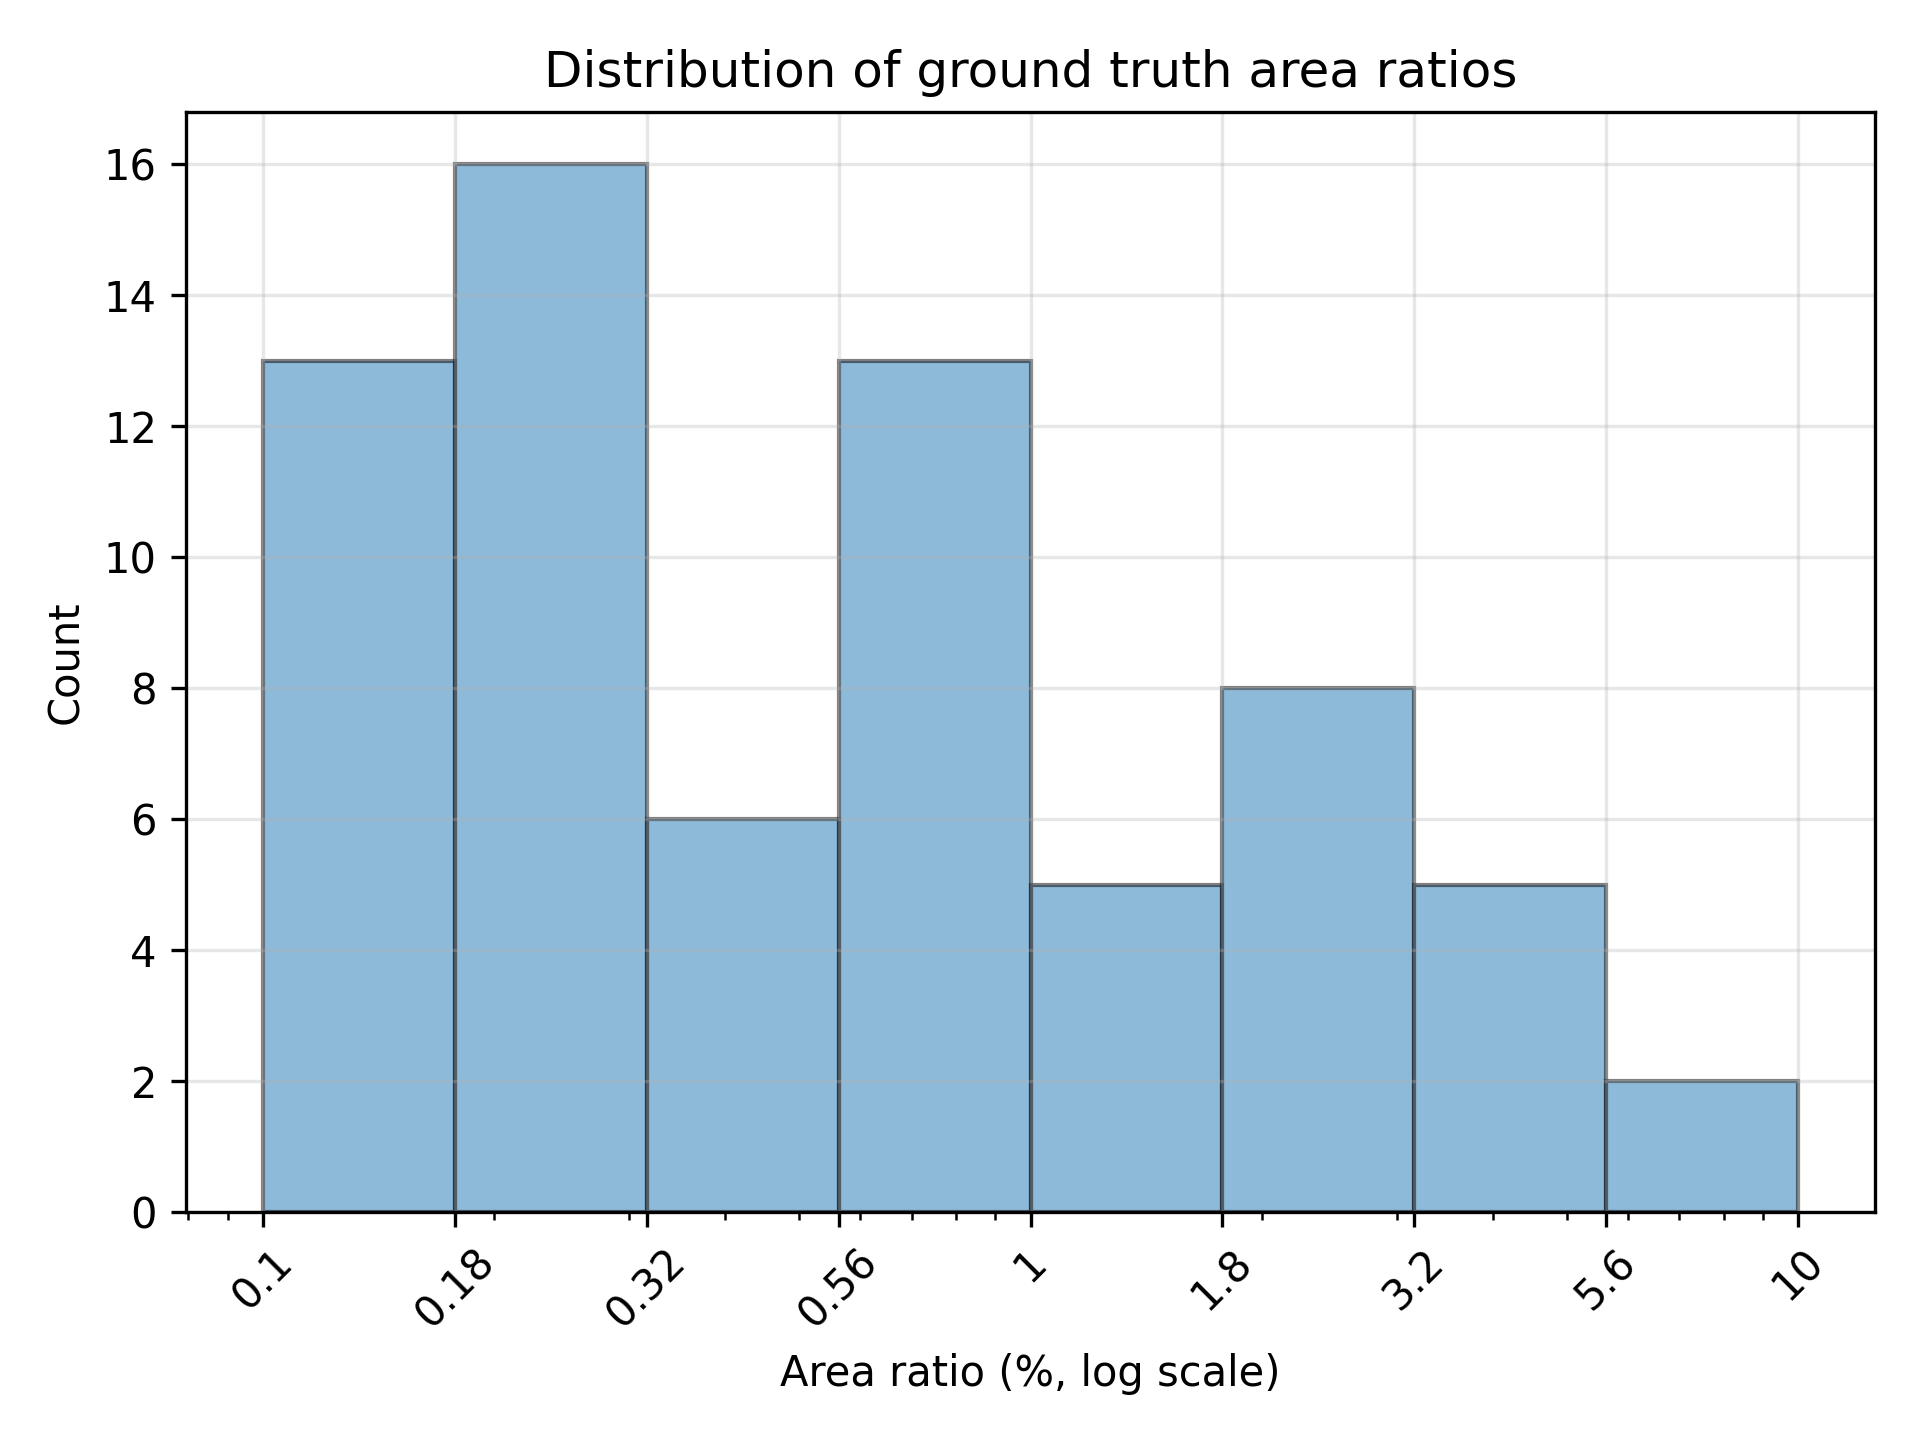
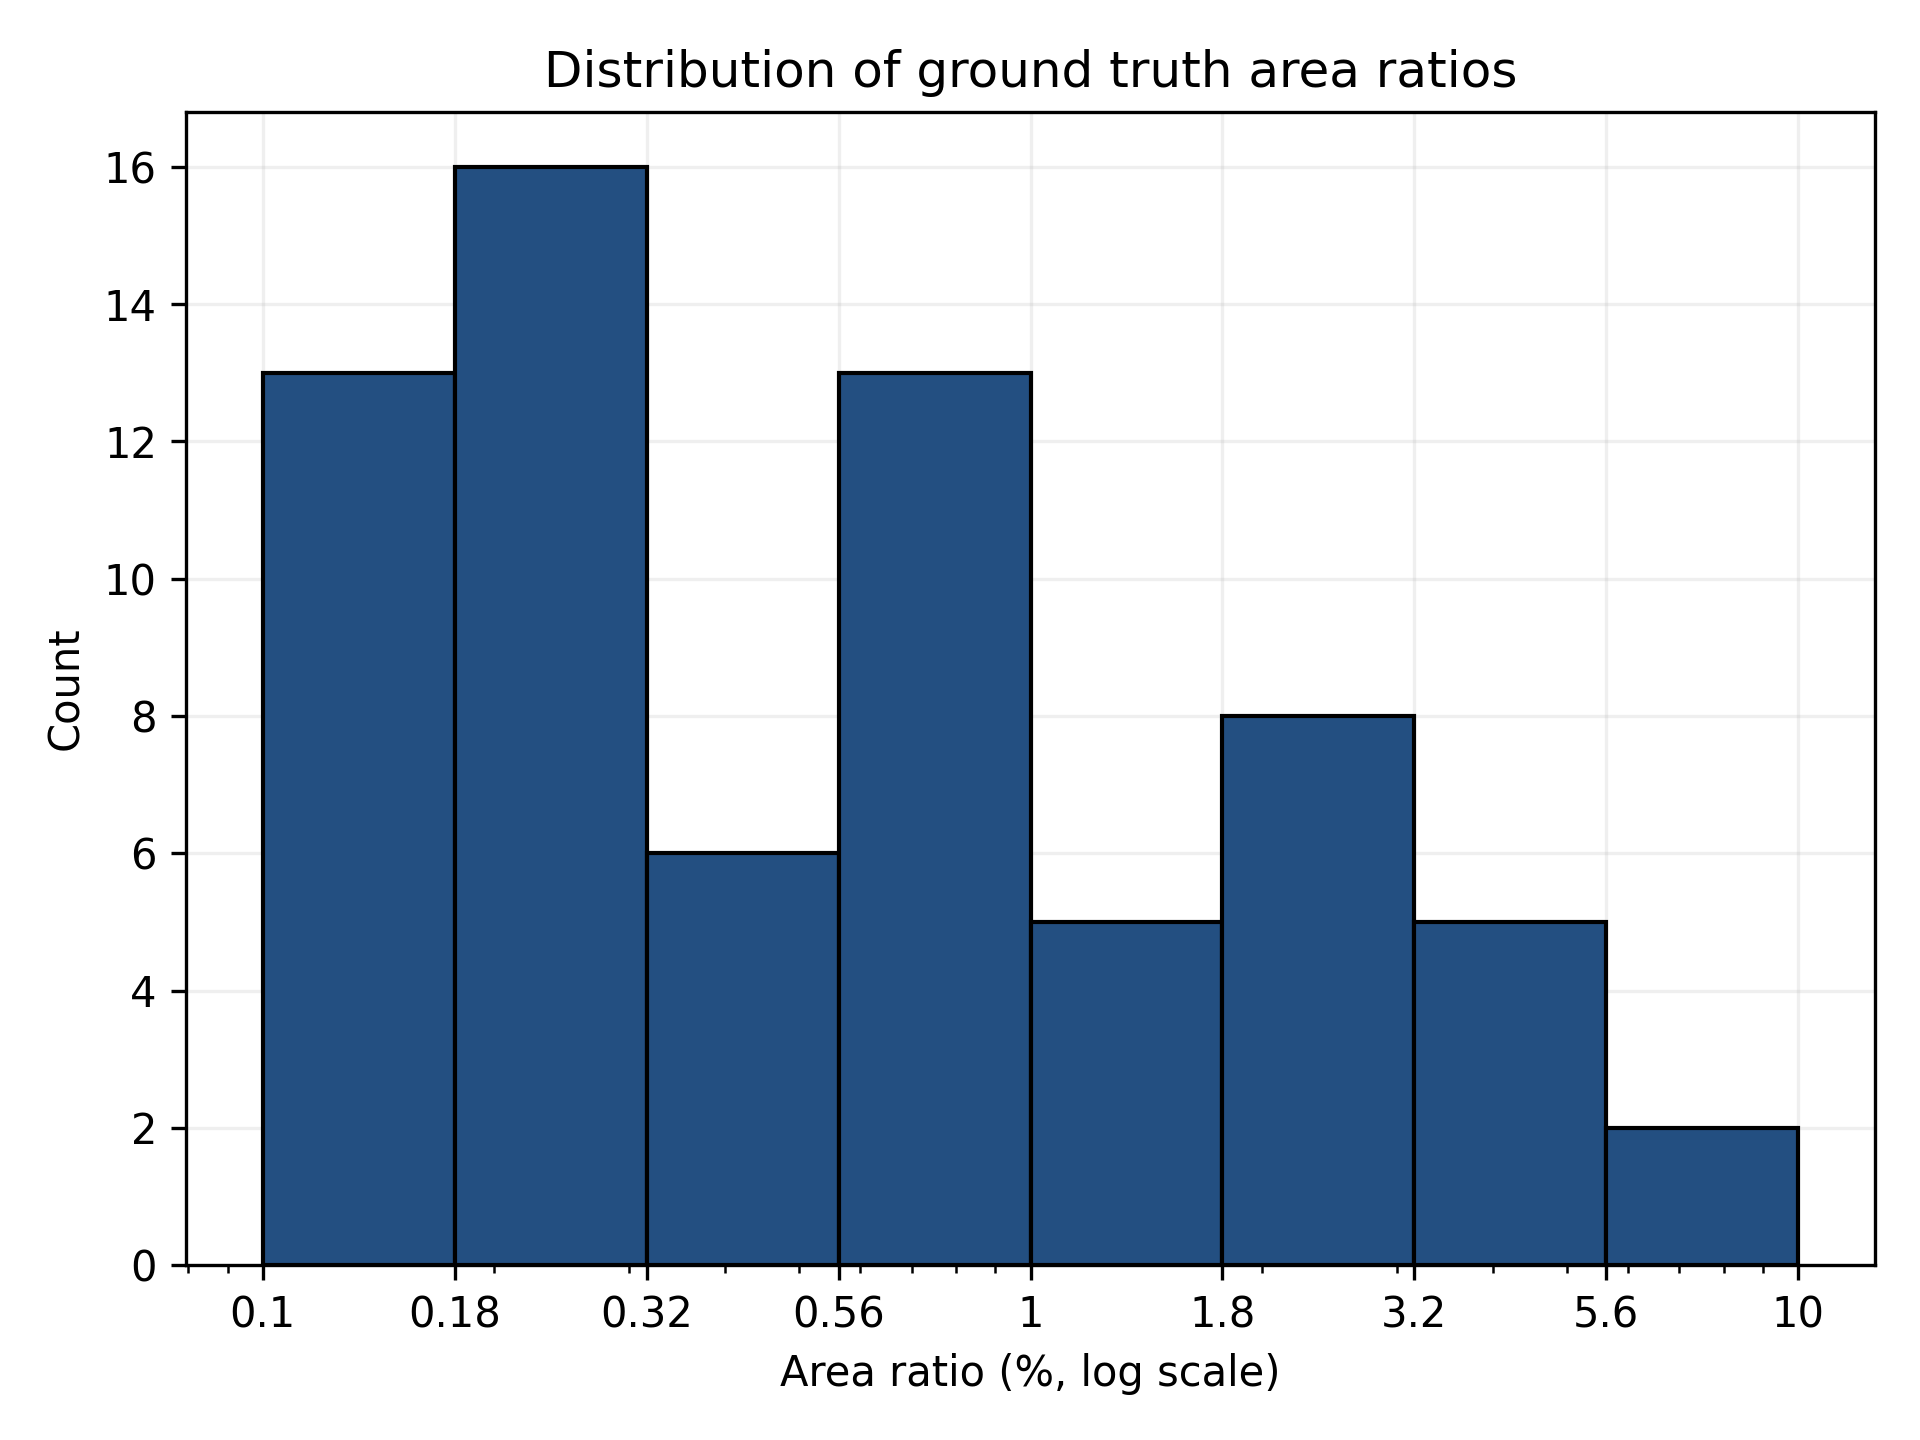
Split 3x3 plot, differe colour for area distribution, title for giou dist

diff --git a/src/wimmelbench/stats.py b/src/wimmelbench/stats.py
@@ -2,9 +2,10 @@ from collections import defaultdict
 import json
 from statistics import mean, median, stdev
 from typing import Dict, List, Mapping, Tuple
-import matplotlib.pyplot as plt
+from matplotlib import ticker, pyplot as plt
 import math
 import os
+import argparse
 
 MODEL_DIRS = {
     "Claude 3.6 Sonnet": "results/claude-3-5-sonnet-20241022",
@@ -50,6 +51,7 @@ def plot_giou_distribution(
 ) -> None:
     """Create side-by-side histograms of GIoU values for all models."""
     fig, axes = plt.subplots(1, 3, figsize=(18, 6))
+    fig.suptitle("GIoU distribution by model", fontsize=14)
 
     bucket_size = 0.05
     buckets = [round(i * bucket_size - 1.0, 2) for i in range(41)]
@@ -68,6 +70,7 @@ def plot_giou_distribution(
             width=bucket_size,
             align="edge",
             color=MODEL_COLORS[model_name],
+            zorder=3,
         )
 
         # Add statistics text box
@@ -87,7 +90,7 @@ def plot_giou_distribution(
         axes[idx].set_ylabel("Count")
         axes[idx].set_xlim(-1, 1)
         axes[idx].set_ylim(0, 16)
-        axes[idx].set_title(f"{model_name}\nGIoU distribution")
+        axes[idx].set_title(model_name)
         axes[idx].grid(True, alpha=0.3)
 
     plt.tight_layout()
@@ -104,17 +107,17 @@ def plot_area_ratio_distribution(area_ratios: List[float], output_path: str) -> 
     plt.hist(
         area_ratios,
         bins=bins,
+        color="#234f81",
         edgecolor="black",
-        alpha=0.5,
+        zorder=3,
     )
 
+    plt.grid(True, which="major", alpha=0.2)
     plt.xscale("log")
     plt.xlabel("Area ratio (%, log scale)")
     plt.ylabel("Count")
     plt.title("Distribution of ground truth area ratios")
-    plt.grid(True, which="major", alpha=0.3)
-    # Format x-axis ticks with fewer decimal places for cleaner look
-    plt.xticks(bins, [f"{x:.2g}" for x in bins], rotation=45)
+    plt.xticks(bins, [f"{x:.2g}" for x in bins])
     plt.tight_layout()
     plt.savefig(output_path, dpi=300)
     plt.close()
@@ -124,58 +127,67 @@ def plot_correlations(
     data_by_model: Dict[str, Tuple[List[float], List[float], List[float]]],
     output_path: str,
 ) -> None:
-    """Create a 3x3 grid of correlation plots comparing all models."""
-    fig, axes = plt.subplots(3, 3, figsize=(20, 20))
-
+    """Create three separate 1x3 plots comparing all models."""
     alpha = 0.9
+    plot_types = [
+        ("giou_vs_area", "GIoU vs Area ratio"),
+        ("grade_vs_area", "Description grade vs Area ratio"),
+        ("grade_vs_giou", "Description grade vs GIoU"),
+    ]
 
-    for col, (model_name, (gious, grades, area_ratios)) in enumerate(
-        data_by_model.items()
-    ):
-        # Add model name only to the first row
-        axes[0, col].set_title(model_name, pad=10, fontweight="bold", fontsize=16)
+    for plot_type, title in plot_types:
+        fig, axes = plt.subplots(1, 3, figsize=(20, 6))
+        fig.suptitle(title, fontsize=16, y=1.01)
 
-        # Plot 1: GIoU vs log area ratio
-        axes[0, col].scatter(
-            area_ratios,
-            gious,
-            alpha=alpha,
-            color=MODEL_COLORS[model_name],
-        )
-        # Add R² inside the plot instead of title
-        axes[0, col].text(
-            0.95,
-            0.05,
-            f"R² = {calculate_r_squared([math.log(r) for r in area_ratios], gious):.2f}",
-            transform=axes[0, col].transAxes,
-            bbox=dict(facecolor="white", alpha=0.8),
-            horizontalalignment="right",
-            verticalalignment="bottom",
-        )
-        axes[0, col].set_ylim(-1, 1)
-        axes[0, col].set_xscale("log")
-        axes[0, col].set_ylabel("GIoU")
-        axes[0, col].set_xlabel("Area ratio (%, log scale)")
+        for col, (model_name, (gious, grades, area_ratios)) in enumerate(
+            data_by_model.items()
+        ):
+            axes[col].set_title(model_name)
 
-        # Plot 2: Description grade vs area ratio
-        axes[1, col].scatter(
-            area_ratios, grades, alpha=alpha, color=MODEL_COLORS[model_name]
-        )
-        axes[1, col].set_yticks(range(4))
-        axes[1, col].set_xscale("log")
-        axes[1, col].set_ylabel("Description grade")
-        axes[1, col].set_xlabel("Area ratio (%, log scale)")
+            if plot_type == "giou_vs_area":
+                axes[col].scatter(
+                    area_ratios, gious, alpha=alpha, color=MODEL_COLORS[model_name]
+                )
+                axes[col].text(
+                    0.95,
+                    0.05,
+                    f"R² = {calculate_r_squared([math.log(r) for r in area_ratios], gious):.2f}",
+                    transform=axes[col].transAxes,
+                    bbox=dict(facecolor="white", alpha=0.8),
+                    horizontalalignment="right",
+                    verticalalignment="bottom",
+                )
+                axes[col].set_ylim(-1, 1)
+                axes[col].set_xscale("log")
+                axes[col].set_xticks([0.02, 0.1, 1, 10])
+                axes[col].set_xticklabels(["0.02", "0.1", "1", "10"])
+                axes[col].set_ylabel("GIoU")
+                axes[col].set_xlabel("Area ratio (%, log scale)")
 
-        # Plot 3: Description grade vs GIoU
-        axes[2, col].scatter(gious, grades, alpha=alpha, color=MODEL_COLORS[model_name])
-        axes[2, col].set_yticks(range(4))
-        axes[2, col].set_ylabel("Description grade")
-        axes[2, col].set_xlabel("GIoU")
-        axes[2, col].set_xlim(-1, 1)
+            elif plot_type == "grade_vs_area":
+                axes[col].scatter(
+                    area_ratios, grades, alpha=alpha, color=MODEL_COLORS[model_name]
+                )
+                axes[col].set_yticks(range(4))
+                axes[col].set_xscale("log")
+                axes[col].set_xticks([0.02, 0.1, 1, 10])
+                axes[col].set_xticklabels(["0.02", "0.1", "1", "10"])
+                axes[col].set_ylabel("Description grade")
+                axes[col].set_xlabel("Area ratio (%, log scale)")
 
-    plt.tight_layout()
-    plt.savefig(output_path, dpi=300)
-    plt.close()
+            else:  # grade_vs_giou
+                axes[col].scatter(
+                    gious, grades, alpha=alpha, color=MODEL_COLORS[model_name]
+                )
+                axes[col].set_yticks(range(4))
+                axes[col].set_ylabel("Description grade")
+                axes[col].set_xlabel("GIoU")
+                axes[col].set_xlim(-1, 1)
+
+        plt.tight_layout()
+        output_file = output_path.replace(".png", f"_{plot_type}.png")
+        plt.savefig(output_file, dpi=300, bbox_inches="tight")
+        plt.close()
 
 
 def plot_grade_distribution(
@@ -261,6 +273,27 @@ def plot_grade_distribution(
 
 
 def main():
+    # Add argument parser
+    parser = argparse.ArgumentParser(
+        description="Generate statistical plots for model comparisons."
+    )
+    parser.add_argument(
+        "--correlations", action="store_true", help="Generate correlation plots"
+    )
+    parser.add_argument(
+        "--giou", action="store_true", help="Generate GIoU distribution plot"
+    )
+    parser.add_argument(
+        "--area", action="store_true", help="Generate area ratio distribution plot"
+    )
+    parser.add_argument(
+        "--grades", action="store_true", help="Generate grade distribution plot"
+    )
+    args = parser.parse_args()
+
+    # If no specific plots are requested, generate all plots
+    generate_all = not any([args.correlations, args.giou, args.area, args.grades])
+
     # Read annotations once
     with open("annotations.json", "r") as f:
         annotations_data = json.load(f)
@@ -305,19 +338,26 @@ def main():
         for annotation in val.values()
     ]
 
-    # Create plots
-    plot_correlations(data_by_model, os.path.join(output_dir, "correlations.png"))
-    plot_giou_distribution(
-        {model: data[0] for model, data in data_by_model.items()},
-        os.path.join(output_dir, "giou_distribution.png"),
-    )
-    plot_area_ratio_distribution(
-        area_ratios, os.path.join(output_dir, "area_ratio_distribution.png")
-    )
-    plot_grade_distribution(
-        all_grades_by_model,
-        os.path.join(output_dir, "grade_distribution.png"),
-    )
+    # Create plots based on arguments
+    if args.correlations or generate_all:
+        plot_correlations(data_by_model, os.path.join(output_dir, "correlations.png"))
+
+    if args.giou or generate_all:
+        plot_giou_distribution(
+            {model: data[0] for model, data in data_by_model.items()},
+            os.path.join(output_dir, "giou_distribution.png"),
+        )
+
+    if args.area or generate_all:
+        plot_area_ratio_distribution(
+            area_ratios, os.path.join(output_dir, "area_ratio_distribution.png")
+        )
+
+    if args.grades or generate_all:
+        plot_grade_distribution(
+            all_grades_by_model,
+            os.path.join(output_dir, "grade_distribution.png"),
+        )
 
 
 if __name__ == "__main__":
